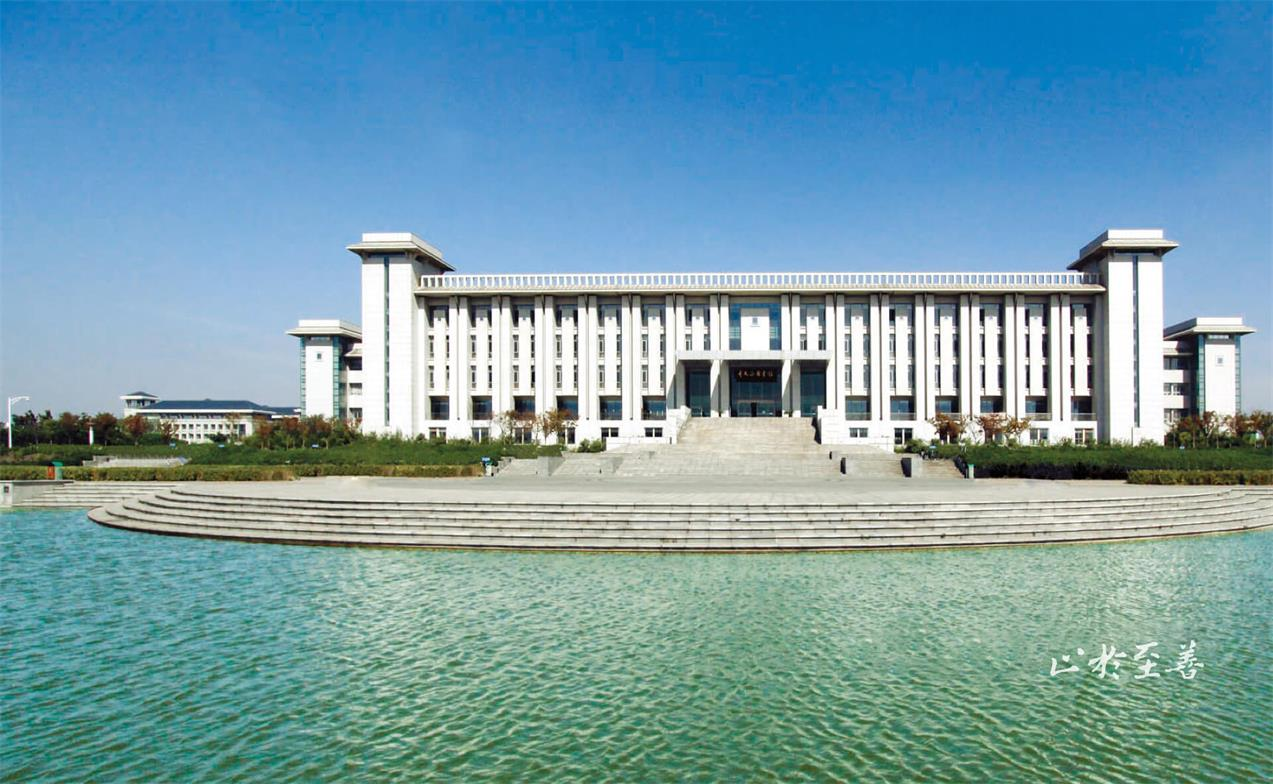
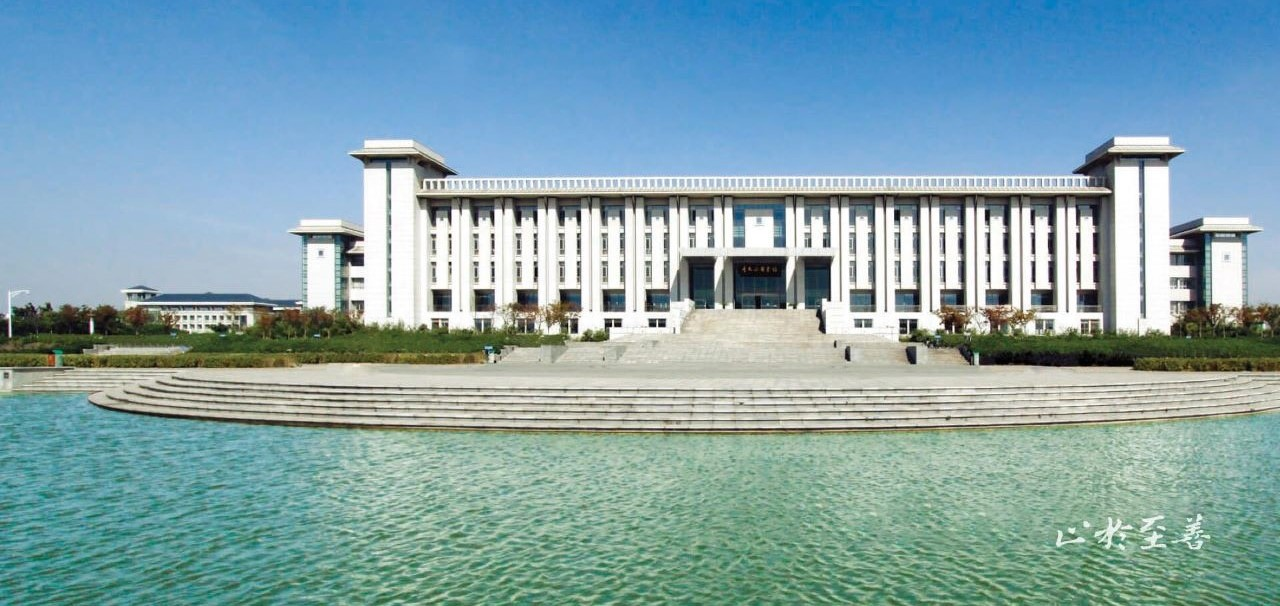
gzy

diff --git a/src/UIviewer/SelectCourse/ChooseCourse_guidance.java b/src/UIviewer/SelectCourse/ChooseCourse_guidance.java
@@ -117,7 +117,8 @@ public class ChooseCourse_guidance extends JPanel{
         int icon7_height=790;
         try {
             Thumbnails.of(new File("src/image/background2.jpg"))
-                    .size((int)(icon7_width*width_r), (int)(icon7_height*height_r))
+                    .size((int)(width), (int)(height))
+                    .keepAspectRatio(false)
                     .toFile(new File("src/image/background2_min.jpg"));
         } catch (IOException e) {
             throw new RuntimeException(e);

diff --git a/src/UIviewer/SelectCourse/Selcourse_director.java b/src/UIviewer/SelectCourse/Selcourse_director.java
@@ -111,6 +111,7 @@ public class Selcourse_director extends JPanel {
         try {
             Thumbnails.of(new File("src/image/background2.jpg"))
                     .size((int)(icon6_width*width_r), (int)(icon6_height*height_r))
+                    .keepAspectRatio(false)
                     .toFile(new File("src/image/background2_min.jpg"));
         } catch (IOException e) {
             throw new RuntimeException(e);

diff --git a/src/UIviewer/SelectCourse/Selcourse_teacher.java b/src/UIviewer/SelectCourse/Selcourse_teacher.java
@@ -147,6 +147,7 @@ public class Selcourse_teacher extends JPanel {
         try {
             Thumbnails.of(new File("src/image/background2.jpg"))
                     .size((int)(icon6_width*width_r), (int)(icon6_height*height_r))
+                    .keepAspectRatio(false)
                     .toFile(new File("src/image/background2_min.jpg"));
         } catch (IOException e) {
             throw new RuntimeException(e);
